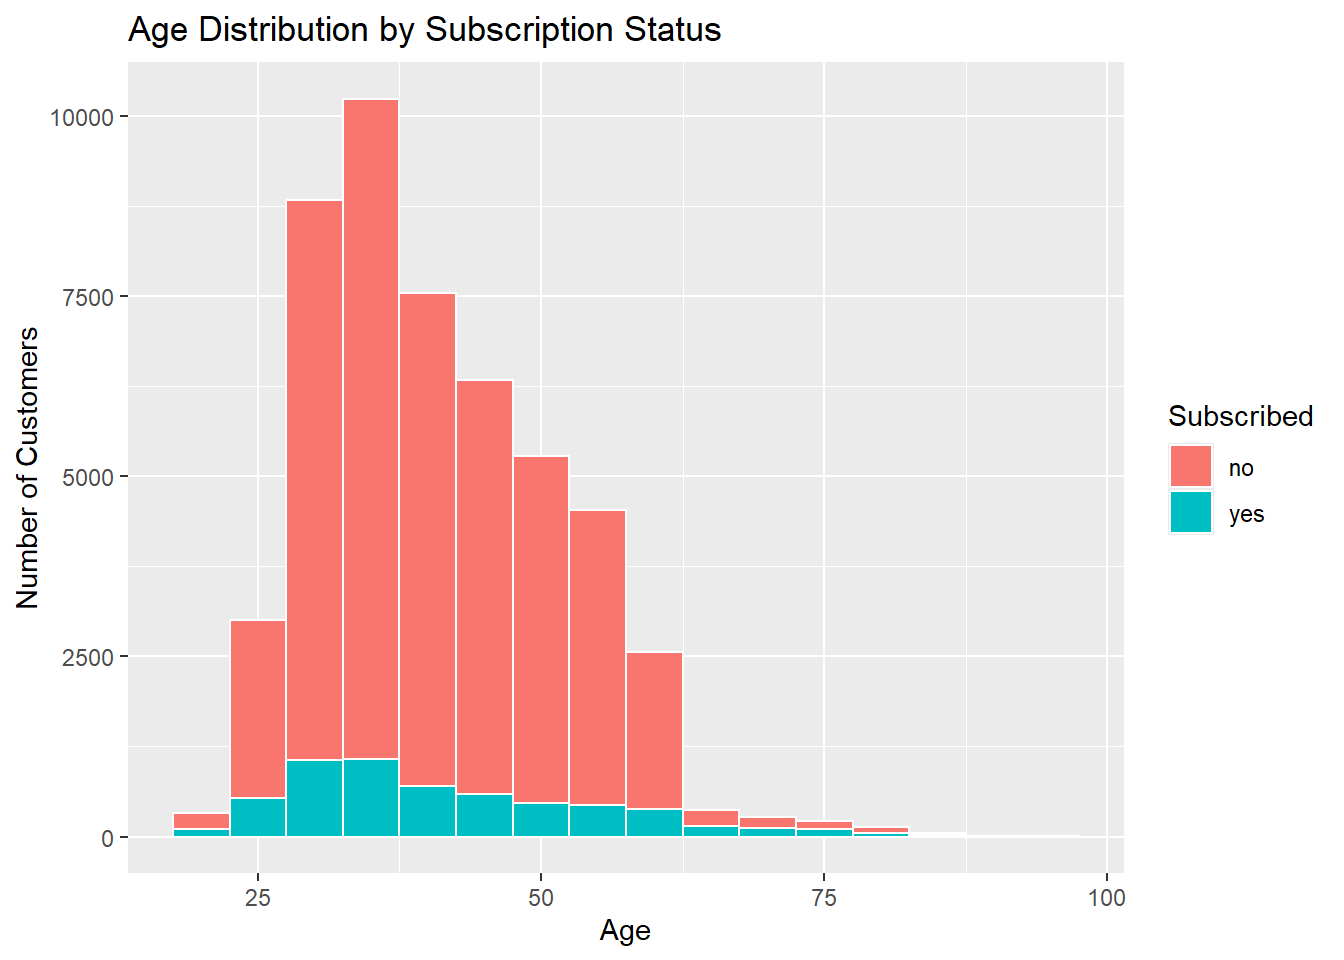
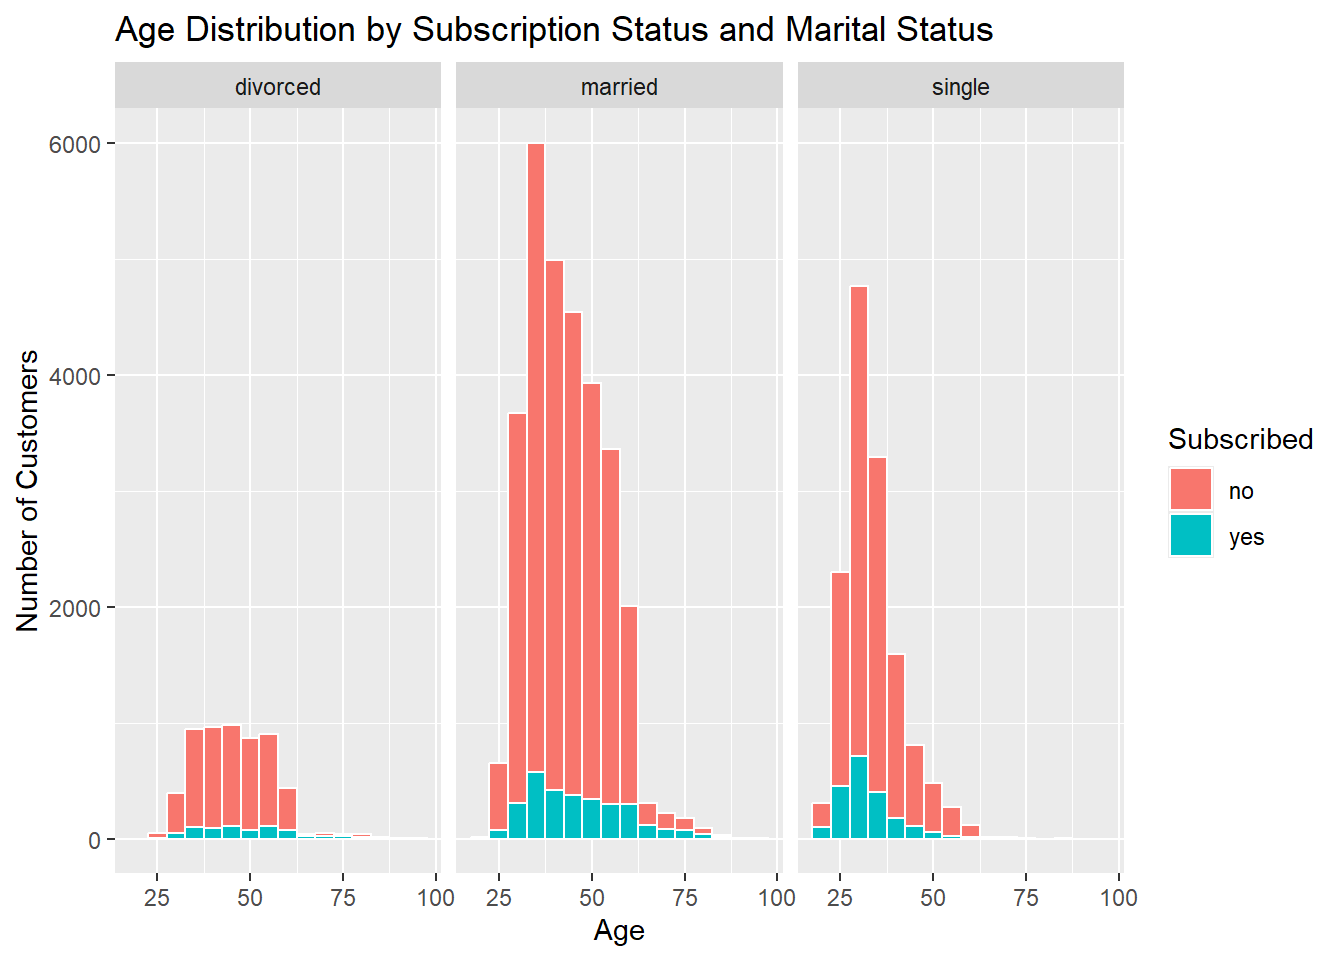
More polishing and making better use of the space on the shiny app. Also added facet for the histogram to satisfy one of the requirements.

diff --git a/docs/Project2.html b/docs/Project2.html
@@ -385,16 +385,17 @@ $ y         &lt;fct&gt; no, no, no, no, no, no, no, no, no, no, no, no, no, no, 
 </section>
 <section id="plot-3-histogram" class="level3">
 <h3 class="anchored" data-anchor-id="plot-3-histogram">Plot 3: Histogram</h3>
-<p>This histogram shows the distribution of customer ages. The bars are colored based on whether the customer subscribed to the term deposit.</p>
+<p>This faceted histogram shows the distribution of customer ages by subscription status, with separate panels for each marital status.</p>
 <div class="cell">
 <div class="sourceCode cell-code" id="cb24"><pre class="sourceCode r code-with-copy"><code class="sourceCode r"><span id="cb24-1"><a href="#cb24-1" aria-hidden="true" tabindex="-1"></a><span class="fu">ggplot</span>(bank, <span class="fu">aes</span>(<span class="at">x =</span> age, <span class="at">fill =</span> y)) <span class="sc">+</span></span>
 <span id="cb24-2"><a href="#cb24-2" aria-hidden="true" tabindex="-1"></a>  <span class="fu">geom_histogram</span>(<span class="at">binwidth =</span> <span class="dv">5</span>, <span class="at">color =</span> <span class="st">"white"</span>) <span class="sc">+</span></span>
-<span id="cb24-3"><a href="#cb24-3" aria-hidden="true" tabindex="-1"></a>  <span class="fu">labs</span>(</span>
-<span id="cb24-4"><a href="#cb24-4" aria-hidden="true" tabindex="-1"></a>    <span class="at">title =</span> <span class="st">"Age Distribution by Subscription Status"</span>,</span>
-<span id="cb24-5"><a href="#cb24-5" aria-hidden="true" tabindex="-1"></a>    <span class="at">x =</span> <span class="st">"Age"</span>,</span>
-<span id="cb24-6"><a href="#cb24-6" aria-hidden="true" tabindex="-1"></a>    <span class="at">y =</span> <span class="st">"Number of Customers"</span>,</span>
-<span id="cb24-7"><a href="#cb24-7" aria-hidden="true" tabindex="-1"></a>    <span class="at">fill =</span> <span class="st">"Subscribed"</span></span>
-<span id="cb24-8"><a href="#cb24-8" aria-hidden="true" tabindex="-1"></a>  )</span></code><button title="Copy to Clipboard" class="code-copy-button"><i class="bi"></i></button></pre></div>
+<span id="cb24-3"><a href="#cb24-3" aria-hidden="true" tabindex="-1"></a>  <span class="fu">facet_wrap</span>(<span class="sc">~</span> marital) <span class="sc">+</span></span>
+<span id="cb24-4"><a href="#cb24-4" aria-hidden="true" tabindex="-1"></a>  <span class="fu">labs</span>(</span>
+<span id="cb24-5"><a href="#cb24-5" aria-hidden="true" tabindex="-1"></a>    <span class="at">title =</span> <span class="st">"Age Distribution by Subscription Status and Marital Status"</span>,</span>
+<span id="cb24-6"><a href="#cb24-6" aria-hidden="true" tabindex="-1"></a>    <span class="at">x =</span> <span class="st">"Age"</span>,</span>
+<span id="cb24-7"><a href="#cb24-7" aria-hidden="true" tabindex="-1"></a>    <span class="at">y =</span> <span class="st">"Number of Customers"</span>,</span>
+<span id="cb24-8"><a href="#cb24-8" aria-hidden="true" tabindex="-1"></a>    <span class="at">fill =</span> <span class="st">"Subscribed"</span></span>
+<span id="cb24-9"><a href="#cb24-9" aria-hidden="true" tabindex="-1"></a>  )</span></code><button title="Copy to Clipboard" class="code-copy-button"><i class="bi"></i></button></pre></div>
 <div class="cell-output-display">
 <div>
 <figure class="figure">
@@ -403,7 +404,7 @@ $ y         &lt;fct&gt; no, no, no, no, no, no, no, no, no, no, no, no, no, no, 
 </div>
 </div>
 </div>
-<p>Most customers are between 30 and 50 years old. Across all age groups, more customers did not subscribe than those who did.</p>
+<p>The age distribution is similar across marital status groups, and in every group more customers did not subscribe than those who did.</p>
 </section>
 <section id="plot-4-scatter-plot" class="level3">
 <h3 class="anchored" data-anchor-id="plot-4-scatter-plot">Plot 4: Scatter plot</h3>